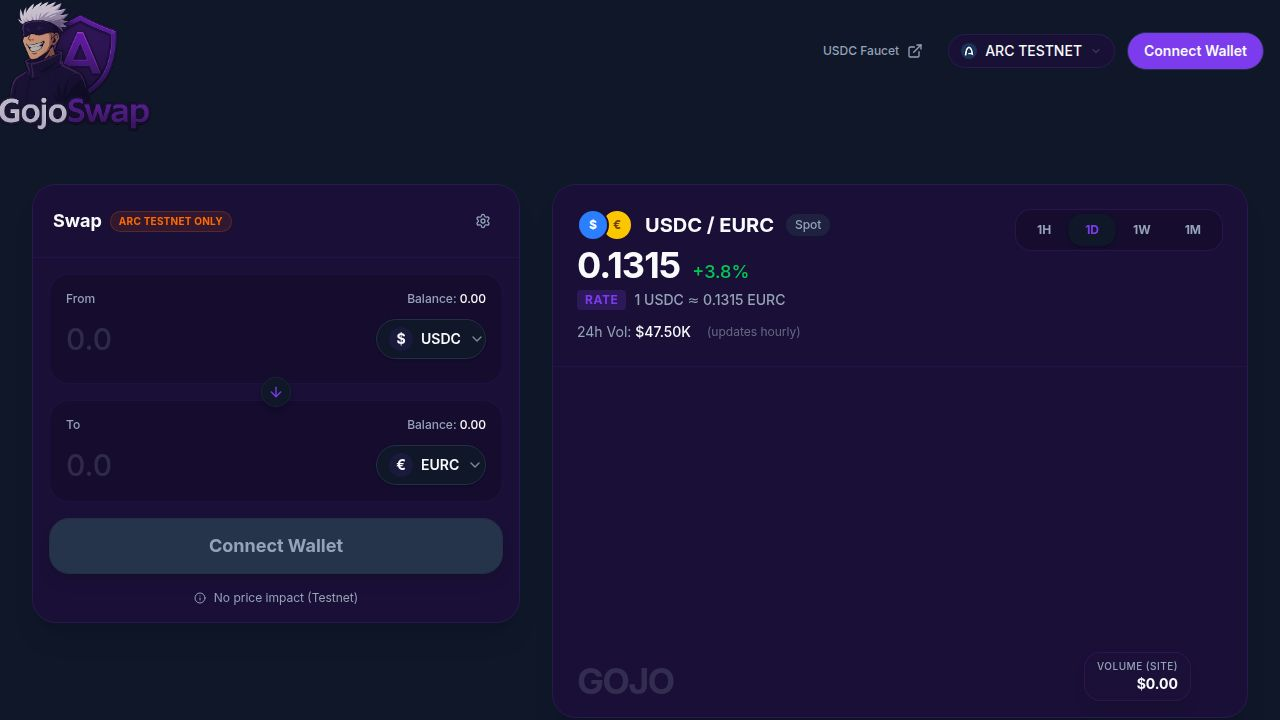
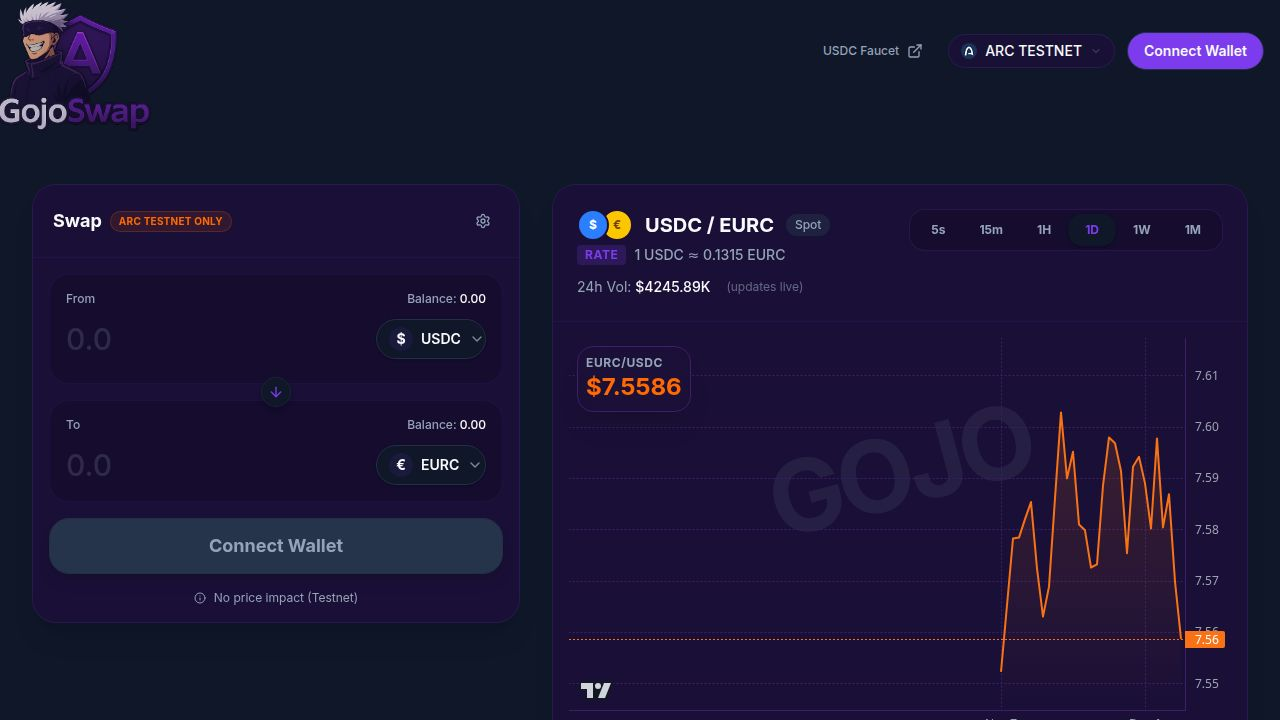
Update chart time intervals and axis formatting for better data visualization
Adjusts chart time intervals to '5s', '15m', '1H', '1D', '1W', '1M' and refactors the time scale to display time and date formatting coherently based on the selected interval in `PriceChart.tsx`.

Replit-Commit-Author: Agent
Replit-Commit-Session-Id: 7bec83d3-ab81-4d06-ae9e-e9c1c70b31a2
Replit-Commit-Checkpoint-Type: full_checkpoint
Replit-Commit-Event-Id: 05655ccf-c77d-4f3e-963a-11f26f145499
Replit-Commit-Screenshot-Url: https://storage.googleapis.com/screenshot-production-us-central1/cd350d6c-e93a-4720-84c1-1a5ce820f9ab/7bec83d3-ab81-4d06-ae9e-e9c1c70b31a2/5OcXsNl
Replit-Helium-Checkpoint-Created: true

diff --git a/client/src/components/price-chart.tsx b/client/src/components/price-chart.tsx
@@ -20,25 +20,29 @@ export default function PriceChart({ timeframe }: PriceChartProps) {
       let count = 100;
 
       switch(period) {
-          case '1s':
-              interval = 1;
-              count = 60;
+          case '5s':
+              interval = 5;
+              count = 100; // 500 seconds history
+              break;
+          case '15m':
+              interval = 15 * 60;
+              count = 50;
               break;
           case '1H':
-              interval = 60;
-              count = 60;
+              interval = 3600; 
+              count = 48; // 2 days
               break;
           case '1D':
-              interval = 3600; // 1 hour candles
-              count = 24;
+              interval = 86400; 
+              count = 30; // 1 month
               break;
           case '1W':
-              interval = 3600 * 4; // 4 hour candles
-              count = 42; // ~1 week
+              interval = 86400 * 7; 
+              count = 24; // ~6 months
               break;
           case '1M':
-              interval = 86400; // 1 day candles
-              count = 30;
+              interval = 86400 * 30; 
+              count = 12; // 1 year
               break;
           default:
               interval = 60;
@@ -72,8 +76,15 @@ export default function PriceChart({ timeframe }: PriceChartProps) {
       height: 400,
       timeScale: {
         timeVisible: true,
-        secondsVisible: false,
+        secondsVisible: timeframe === '5s' || timeframe === '15m' || timeframe === '1H',
         borderColor: '#3b1f69',
+        tickMarkFormatter: (time: number, tickMarkType: any, locale: any) => {
+            const date = new Date(time * 1000);
+            if (timeframe === '5s') return date.toLocaleTimeString(locale, { hour: '2-digit', minute: '2-digit', second: '2-digit' });
+            if (timeframe === '15m' || timeframe === '1H') return date.toLocaleTimeString(locale, { hour: '2-digit', minute: '2-digit' });
+            if (timeframe === '1D') return date.toLocaleDateString(locale, { day: 'numeric', month: 'short' });
+            return date.toLocaleDateString(locale, { month: 'short', year: '2-digit' });
+        },
       },
       rightPriceScale: {
         borderColor: '#3b1f69',

diff --git a/client/src/components/swap-interface.tsx b/client/src/components/swap-interface.tsx
@@ -1191,7 +1191,7 @@ export default function SwapInterface() {
                          </div>
                        </div>
                        <div className="flex bg-[#130b29]/60 rounded-lg p-1 border border-[#3b1f69]/50">
-                         {["1s", "1H", "1D", "1W", "1M"].map(period => (
+                         {["5s", "15m", "1H", "1D", "1W", "1M"].map(period => (
                            <Button 
                             key={period} 
                             variant="ghost" 
